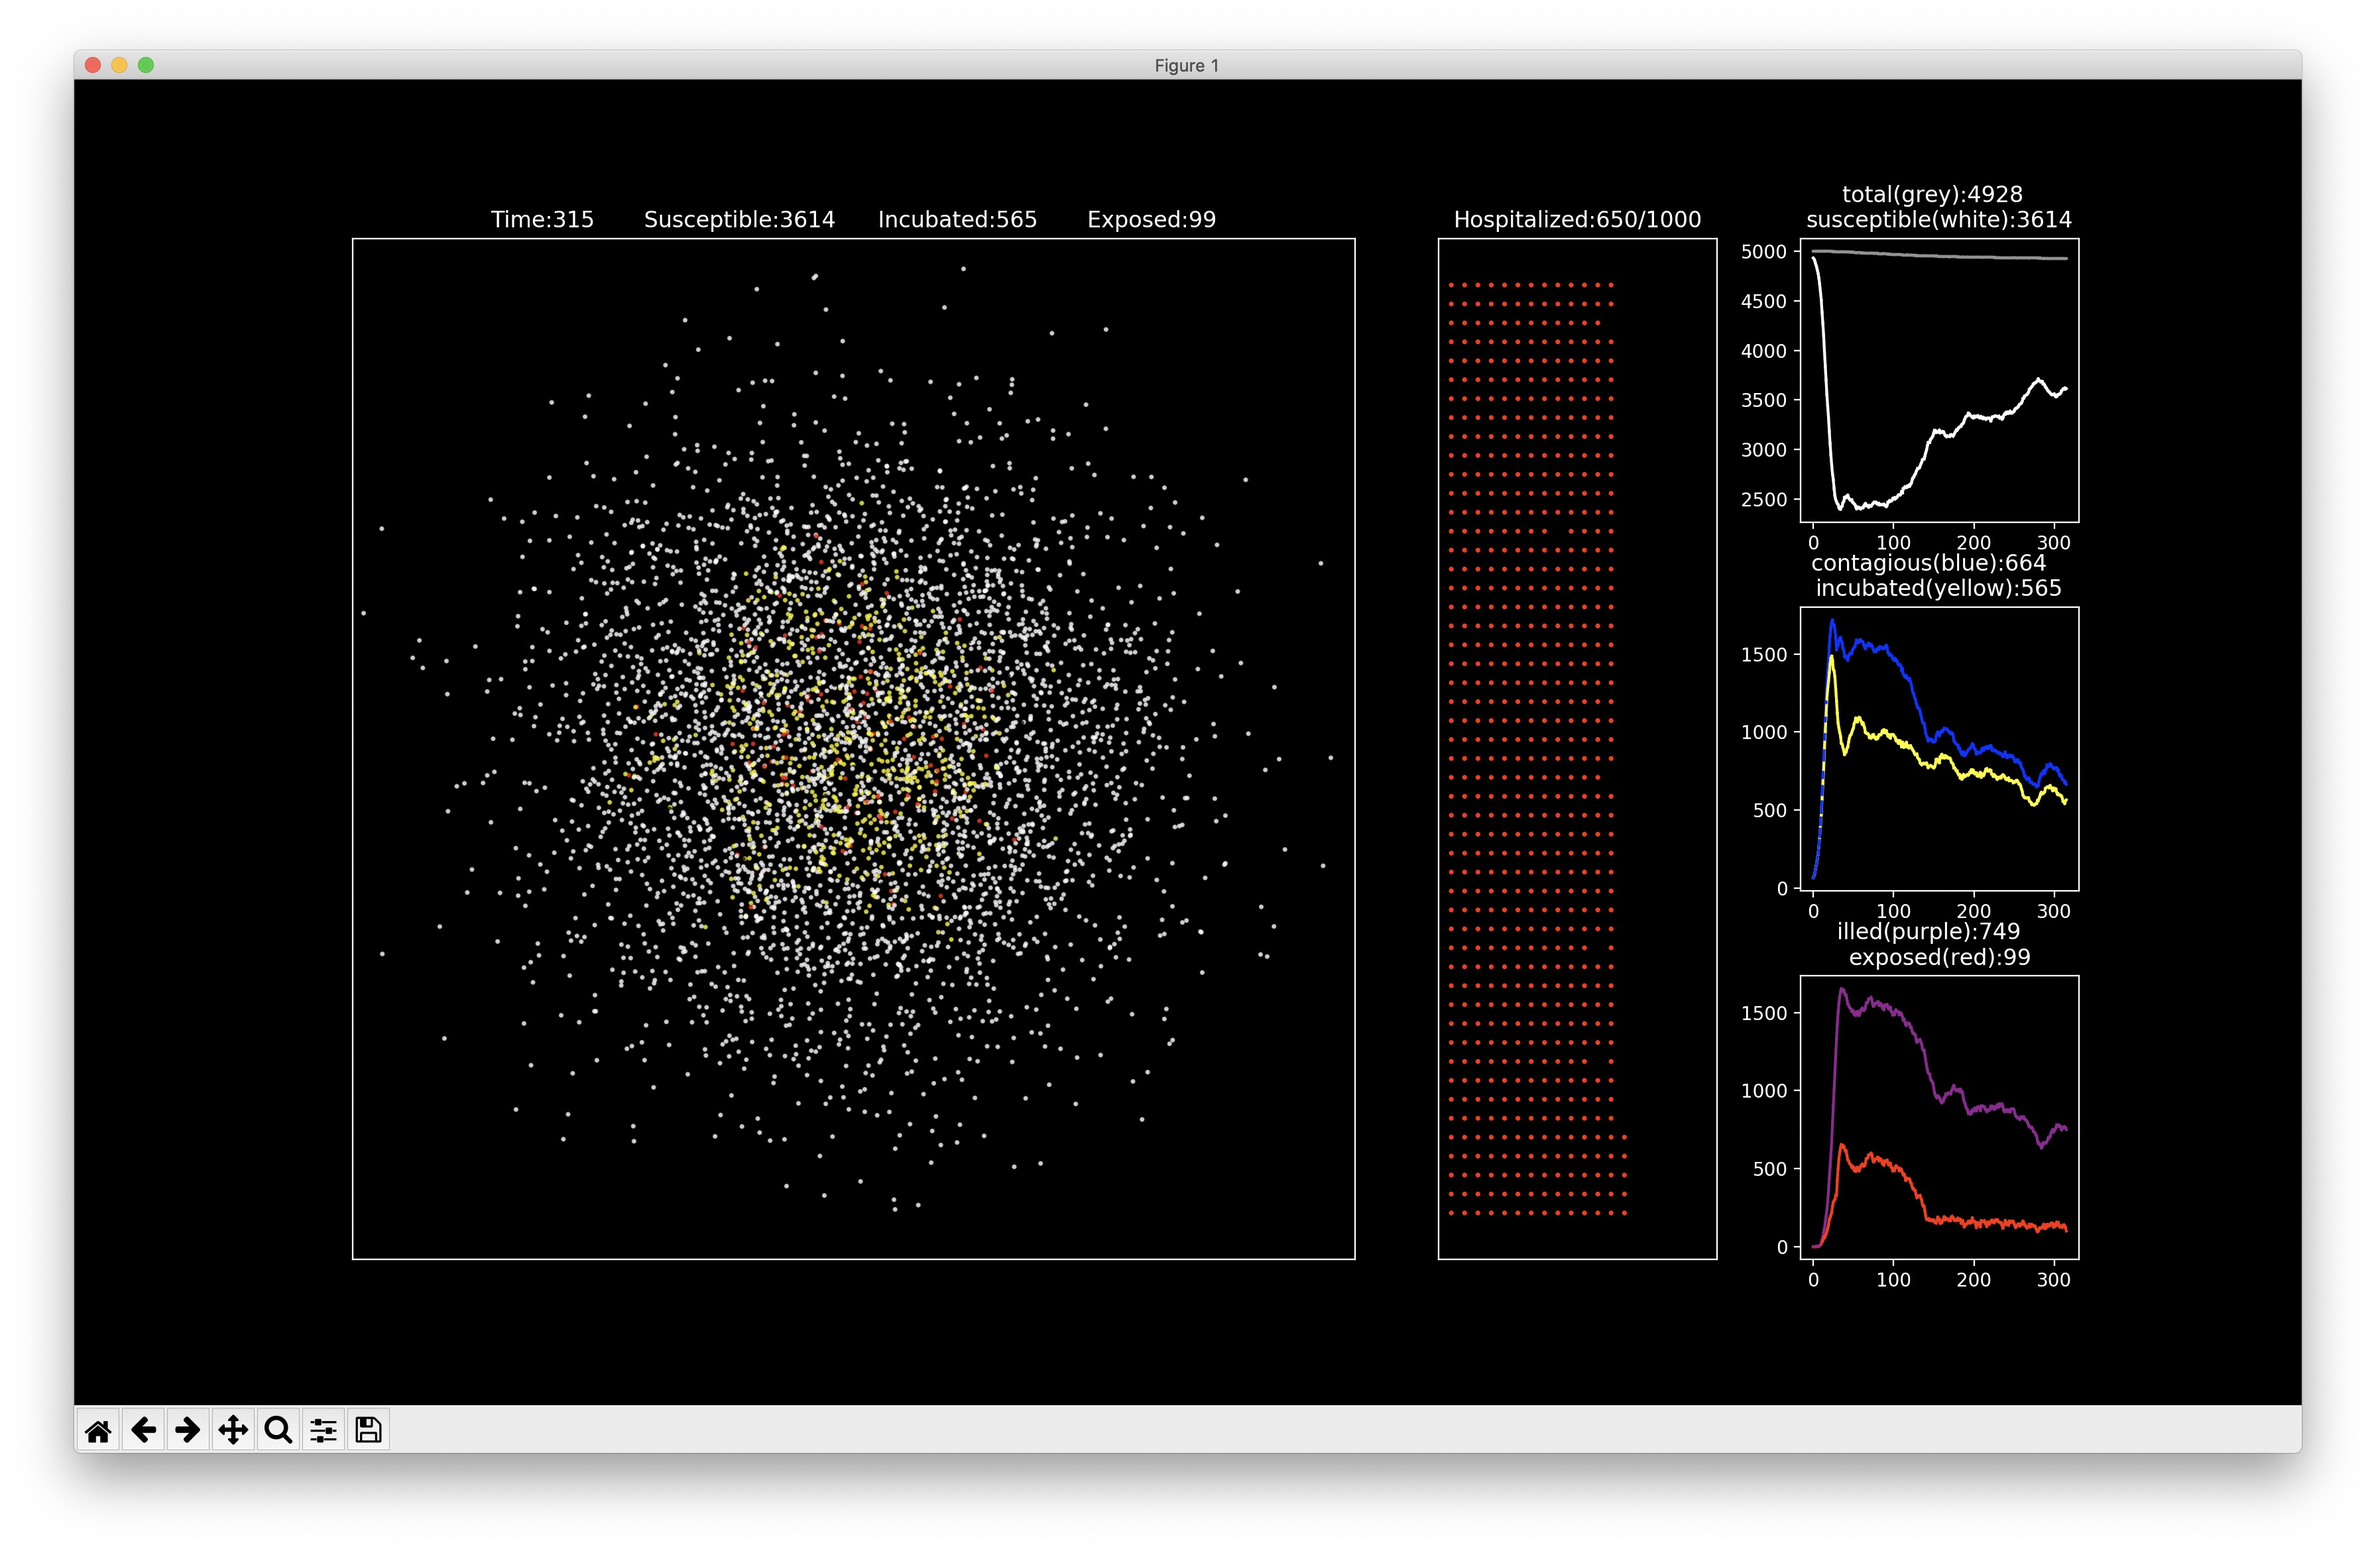
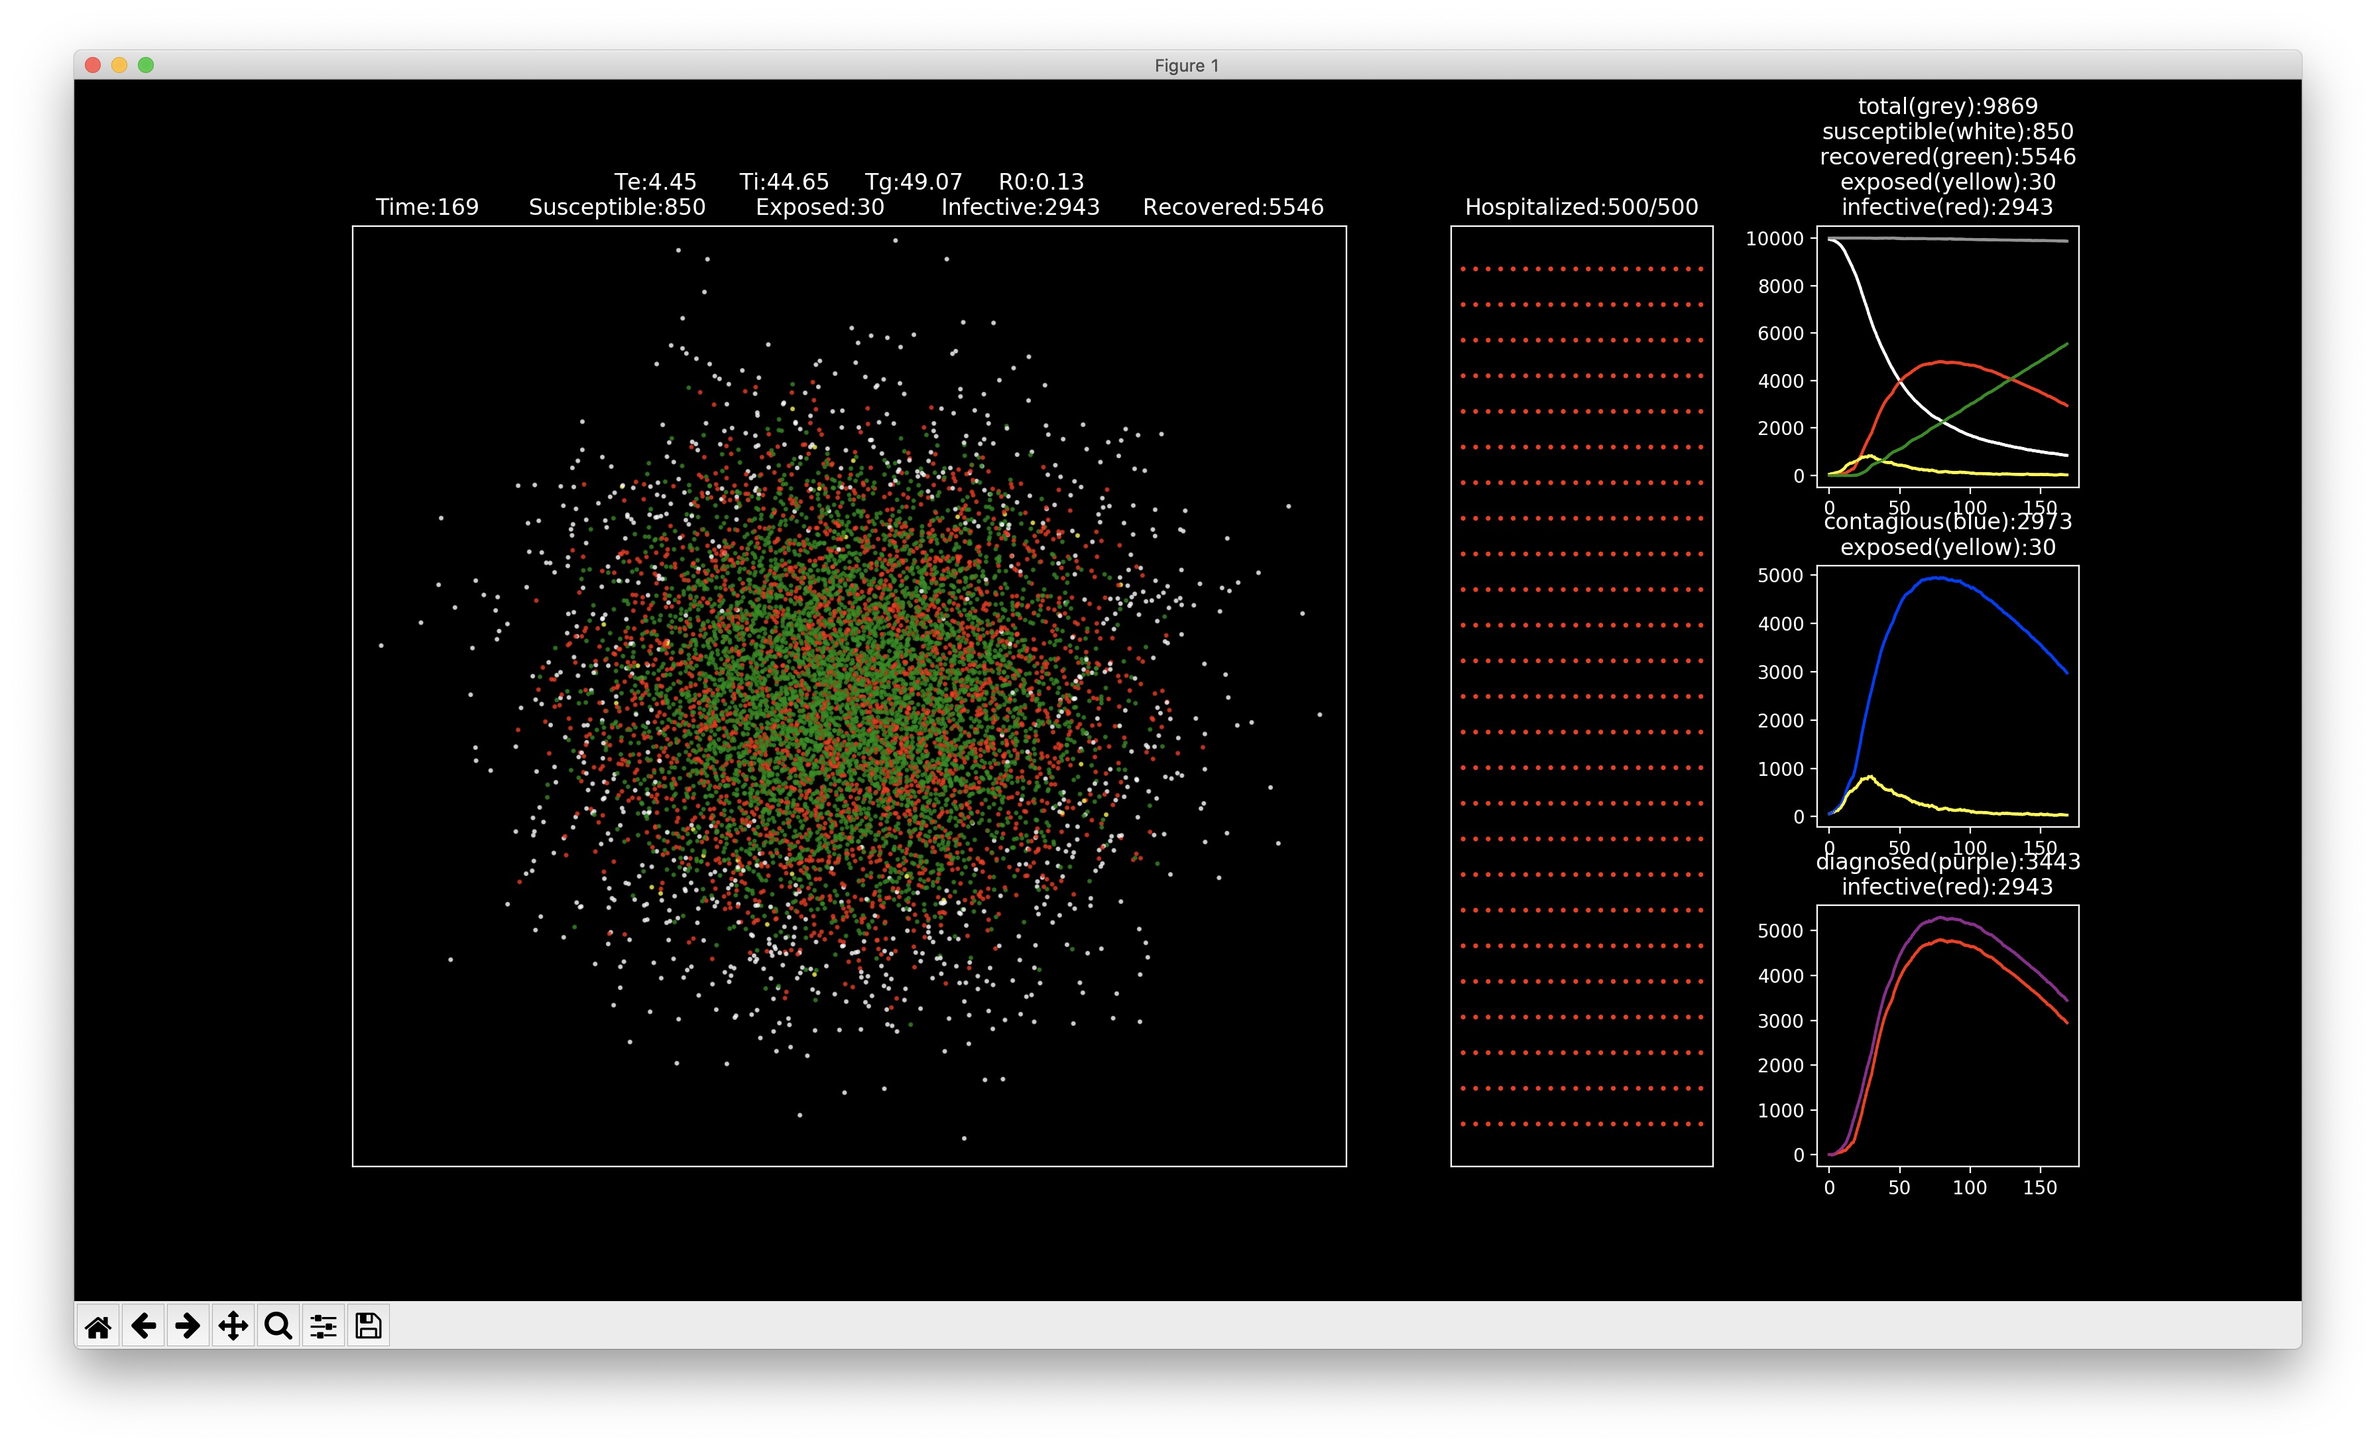
Desc image updated

diff --git a/main.py b/main.py
@@ -6,7 +6,7 @@ from graph import graph
 
 def init():
 	ORIGINAL_COUNT = 50 #初始感染数量
-	BROAD_RATE = 0.5 #被传染概率
+	BROAD_RATE = 0.8 #被传染概率
 	EXPOSED_TIME = 5 #平均潜伏时间
 	HOSPITAL_RECEIVE_TIME = 3 #平均医院收治时间
 	CURE_TIME = 14 #平均治疗时间
@@ -14,7 +14,7 @@ def init():
 	DEATH_RATE = 0.01/(CURE_TIME+10*HOSPITAL_RECEIVE_TIME) #每日死亡概率
 	BED_COUNT = 500 #医院床位
 	SAFETY_DIST = 10 #安全距离
-	FLUCTUATION = 4 #各参数与平均值之间的波动
+	FLUCTUATION = 4 #各参数与平 均值之间的波动
 	u = np.exp(1) #流动意向
 	PERSON_COUNT = 10000 #城市内人数
 	can_exposed_infect = True # 潜伏期能否感染他人
